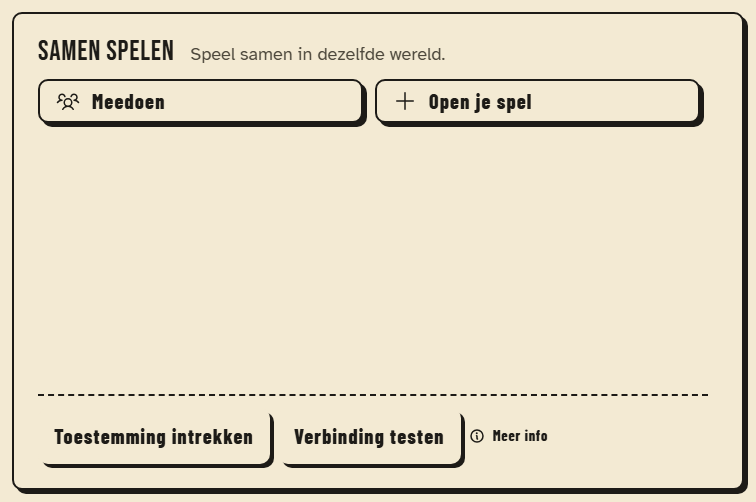
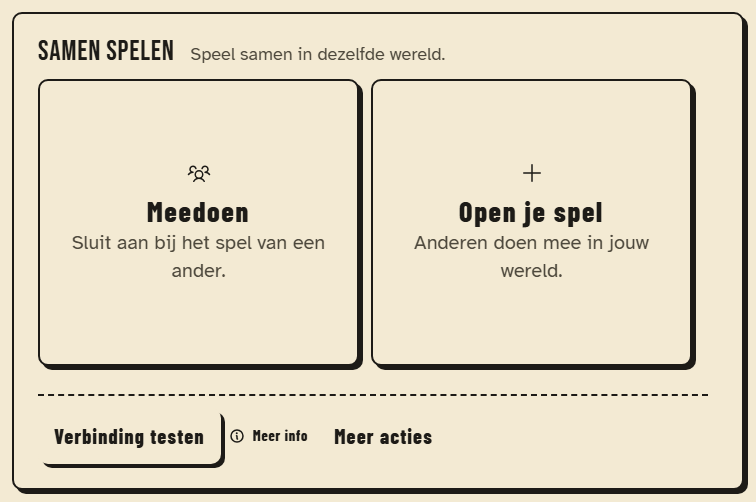
OSK-knop kreeg de klasse van de staat op html (pagina verborgen): hernoemd en klein; Samen-keuzekaarten groot; kaartstrook en legenda uitgelijnd; Garage op Alles en een paginamarge voor kop, tabs en inhoud

diff --git a/game/js/multiplayerwizardui.js b/game/js/multiplayerwizardui.js
@@ -23,13 +23,13 @@ export function wizardHtml(ctx) {
 
   if (s.step === 'start') {
     titel = WIZ_TEKST.keuze.titel; kort = WIZ_TEKST.keuze.kort;
-    body = `<div class="sw-kaarten sw-kaarten--2" role="group" aria-label="Wat wil je doen">
+    body = `<div class="sw-kaarten sw-kaarten--2 sw-kaarten--groot" role="group" aria-label="Wat wil je doen">
       ${choiceCard(icoon, 'spelers', 'Meedoen', 'Sluit aan bij het spel van een ander.', 'kies-gast')}
       ${choiceCard(icoon, 'plus', 'Open je spel', 'Anderen doen mee in jouw wereld.', 'kies-host')}
     </div>`;
     voet = [{ act: 'diag', label: 'Verbinding testen' }];
     info = ctx.stukken.uitleg;
-    if (s.consentSaved) voet.push({ act: 'consent-vergeet', label: 'Toestemming intrekken' });
+    if (s.consentSaved) voet.push({ act: 'consent-vergeet', label: 'Toestemming intrekken', meer: true });
   } else if (step === WSTEP.WHO) {
     titel = WIZ_TEKST.wie.titel; kort = v.profiel ? v.profiel.tekst : WIZ_TEKST.wie.kort;
     body = wieHtml(ctx);
@@ -76,7 +76,8 @@ export function wizardHtml(ctx) {
   const primair = gesorteerd.filter((b) => b.primary);
   const rest = gesorteerd.filter((b) => !b.primary);
   const max = rest.length <= VOET_SECUNDAIR_MAX ? VOET_SECUNDAIR_MAX : 1; // een volle voet houdt één secundaire knop en zet de rest achter "Meer acties"
-  const visible = rest.slice(0, max), meerActies = rest.slice(max);
+  const vast = rest.filter((b) => !b.meer); // een zeldzame actie (Toestemming intrekken) staat altijd achter "Meer acties"
+  const visible = vast.slice(0, max), meerActies = [...vast.slice(max), ...rest.filter((b) => b.meer)];
   const knop = (b) => `<button type="button" class="ds-z-knop${b.primary ? '' : ' ds-z-knop--secundair'} coop-btn sw-knop" data-act="${b.act}"${b.primary ? ' data-primary="1"' : ''}${b.disabled ? ' disabled aria-disabled="true"' : ''}${b.busy ? ' aria-busy="true"' : ''}><span class="ss-label">${b.busy ? icoon('zandloper', { maat: 's' }) + ' ' : ''}${esc(b.label)}${b.primary && !b.disabled ? ` <span class="coop-toets">${ctx.keyTextHtml('{ENTER}')}</span>` : ''}</span></button>`;
   const meerHtml = meerActies.length ? `<details class="sw-acties"${ctx.meerOpen ? ' open' : ''}><summary class="ds-z-knop ds-z-knop--ghost sw-knop">Meer acties</summary><div class="sw-acties-lijst">${meerActies.map(knop).join('')}</div></details>` : '';
   const infoHtml = info.length ? `<details class="sw-info"${ctx.uitlegOpen ? ' open' : ''}><summary class="sw-info-knop">${icoon('info', { maat: 's' })} Meer info</summary><div class="sw-info-tekst">${info.map((l) => `<p>${esc(l)}</p>`).join('')}</div></details>` : '';

diff --git a/game/js/ds-menu-zeef.css b/game/js/ds-menu-zeef.css
@@ -66,3 +66,16 @@ html.reduce-motion :is(.gm-zeef, #pause-menu :is([data-panel="todo"], [data-pane
 
 /* idem voor de overige menuschermen op papier (winkel, Samen spelen, Opgeslagen spellen): de vloer van 13 schermpixels */
 .gm-zeef { --ds-t-label: max(16px, var(--menu-min)); --ds-t-hulp: max(14px, var(--menu-min)); }
+
+/* Eén paginamarge voor kop, tabrij en inhoud (22-11, Garage-feedback): menu.css gaf de kop 40, de tabrij 64 en de lijst per breekpunt weer iets anders,
+   waardoor de kolommen niet onder de titel begonnen. --pm-pad-x is de enige maat; Spullen, Garage, Land en bedrijf, Loopbanen en de andere bladen
+   met kop + tabs + lijst/paneel volgen hem. Ritme: kop, 16 px lucht, tabrij, 16 px lucht, inhoud; het paneel rechts houdt een eigen goot tot de scrollbalk. */
+#pause-menu { --pm-pad-x: var(--ds-s-6); --pm-pad-y: var(--ds-s-4); }
+@media (max-height: 460px) { #pause-menu { --pm-pad-x: var(--ds-s-5); --pm-pad-y: var(--ds-s-2); } }
+#pause-menu :is([data-panel="todo"], [data-panel="garage"], [data-panel="verhaal"], [data-panel="prestaties"], [data-panel="loopbaan"], [data-panel="veroverd"], [data-panel="fotos"], [data-panel="spullen"], [data-panel="boerderij"], [data-panel="streken"]) .pm-inner > .m-tabs { margin: var(--pm-pad-y) var(--pm-pad-x) 0; padding-top: var(--ds-s-1); }
+#pause-menu :is([data-panel="todo"], [data-panel="garage"], [data-panel="verhaal"], [data-panel="prestaties"], [data-panel="loopbaan"], [data-panel="veroverd"], [data-panel="fotos"], [data-panel="spullen"], [data-panel="boerderij"], [data-panel="streken"]) .pm-inner > .m-main { padding: var(--pm-pad-y) var(--pm-pad-x) var(--ds-s-5); }
+#pause-menu .pm-sheet-head.m-head { padding-inline: var(--pm-pad-x); }
+#pause-menu [data-panel="garage"] .m-tablist { align-items: center; }
+#pause-menu [data-panel="garage"] .m-tablist .gar-chip:first-of-type { margin-left: auto; }
+#pause-menu [data-panel="garage"] .m-tablist .gar-chip:last-of-type { margin-right: var(--ds-s-2); }
+#pause-menu [data-panel="garage"] .m-pane.gar-viewer { padding-right: var(--ds-s-3); scrollbar-gutter: stable; }

diff --git a/game/js/mapview.js b/game/js/mapview.js
@@ -1214,10 +1214,10 @@ function isVoortgangsregel(tekst) {
 // De strook: links onder het zoekveld (eerst rechtsboven, maar daar lagen de knop Lagen en het paneel overheen). Daar zit geen kaartchrome (de uitleg
 // staat linksboven, de legenda, de zoomknoppen en de schaalbalk linksonder) en
 // de pins wijken ervoor, dus de chip valt nooit over een icoon (#463).
-function voortgangsStrook(cw, ch, breedte, hoogte) {
+function voortgangsStrook(cw, ch, breedte, hoogte, top = 196, links = 52) {
   const w = Math.min(Math.max(120, Math.round(breedte)), Math.max(120, cw - 24));
   const h = Math.max(18, Math.round(hoogte));
-  return [52, 196, 52 + w, Math.min(ch - 12, 196 + h)]; // links onder het zoekveld: rechtsboven liggen de knop Lagen en het paneel Op de kaart
+  return [links, top, links + w, Math.min(ch - 12, top + h)]; // links onder het zoekveld: rechtsboven liggen de knop Lagen en het paneel Op de kaart
 }
 
 // Een pin onder de strook is onleesbaar en niet aanwijsbaar; hij wijkt, tenzij
@@ -1414,7 +1414,13 @@ function drawStaticOverlay(ctx) {
     ctx.font = '600 12px sans-serif';
     let w = 0;
     for (const r of strookRegels) w = Math.max(w, ctx.measureText(r.tekst).width);
-    state.strook = voortgangsStrook(state.cw, state.ch, w + 20, strookRegels.length * 18 + 8);
+    // de strook hangt onder het zoekveld zoals het er echt staat (de kop schaalt mee met het menu), niet op een vaste hoogte
+    let top = 196, links = 52;
+    try {
+      const zr = state.overlay.querySelector('.mapview-search').getBoundingClientRect(), cr = state.canvas.getBoundingClientRect();
+      if (zr.height > 0 && cr.width > 0) { top = Math.round((zr.bottom - cr.top) * (state.cw / cr.width)) + 12; links = Math.max(12, Math.round((zr.left - cr.left) * (state.cw / cr.width))); }
+    } catch (e) { /* geen DOM (test): de vaste plek */ }
+    state.strook = voortgangsStrook(state.cw, state.ch, w + 20, strookRegels.length * 18 + 8, top, links);
     bezet.push(state.strook);
   } else state.strook = null;
 

diff --git a/game/js/samenspelen.css b/game/js/samenspelen.css
@@ -190,6 +190,13 @@ html.touch-device :is(#pause-menu .pm-samen, .coop-hold, .cp-overlay) .coop-toet
 #pause-menu .pm-samen .sw-kaart:hover:not([aria-pressed="true"]) { background: var(--ds-c-wit); }
 #pause-menu .pm-samen .sw-kaart:focus-visible { outline: var(--ds-focus-dikte) solid var(--ds-zeef-tx); outline-offset: var(--ds-focus-afstand); }
 
+/* de eerste keuze (Meedoen | Open je spel): twee grote kaarten die de ruimte vullen, de regel eronder blijft ook in een laag vak staan */
+#pause-menu .pm-samen .sw .sw-kaarten--groot { flex: 1 1 auto; min-height: 0; padding: 0 var(--ds-s-2) var(--ds-s-2) 0; }
+#pause-menu .pm-samen .sw .sw-kaarten--groot .sw-kaart { flex-direction: column; justify-content: center; align-items: center; text-align: center; gap: var(--ds-s-3); padding: var(--ds-s-4); min-height: 0; }
+#pause-menu .pm-samen .sw .sw-kaarten--groot .sw-kaart-kol { align-items: center; gap: var(--ds-s-1); }
+#pause-menu .pm-samen .sw .sw-kaarten--groot .sw-kaart-t { font-size: var(--ds-t-subkop); }
+#pause-menu .pm-samen .sw .sw-kaarten--groot .sw-kaart-tekst { display: block; font-size: var(--ds-t-body); }
+
 /* velden onder de kaarten */
 #pause-menu .pm-samen .sw-paneel { flex: none; display: flex; flex-direction: column; gap: var(--ds-s-2); }
 #pause-menu .pm-samen .sw-veld { display: flex; flex-direction: column; gap: var(--ds-s-1); }
@@ -269,6 +276,7 @@ html.touch-device :is(#pause-menu .pm-samen, .coop-hold, .cp-overlay) .coop-toet
 /* een laag vak (de menustage op 1280x720): de regel onder de kaartnaam valt weg en de knoppen worden compact */
 @container swvak (max-height: 640px) {
   .sw-kaart-tekst { display: none; }
+  .sw-kaarten--groot .sw-kaart-tekst { display: block; }
   .sw .sw-voet .sw-knop { min-height: var(--ds-doel-aanraken); padding-block: var(--ds-s-1); }
   .sw .sw-voet { padding-top: var(--ds-s-2); }
 }

diff --git a/game/js/garageui.js b/game/js/garageui.js
@@ -124,7 +124,8 @@ const PIN = icoon('plek', { maat: 'm' });
 
 const GROUP_LABEL = { owned: 'van jou', sale: 'te koop', locked: 'op slot' };
 const GROUP_HEAD = { owned: 'Van jou', sale: 'Te koop', locked: 'Op slot' };
-const view = { cat: 'autos', filter: 'all', sort: 'naam' };
+// De standaardtab is Alles (in het begin heb je weinig voertuigen); kiest de speler zelf een tab (eigen), dan blijft die staan zolang het spel draait.
+const view = { cat: 'all', eigen: false, filter: 'all', sort: 'naam' };
 
 let viewer = null;
 let viewerCanvas = null;
@@ -523,7 +524,7 @@ function bindToolbar(el) {
     const s = ev.target.closest('[data-garage-sort]');
     const f = ev.target.closest('[data-garage-filter]');
     if (!c && !s && !f) return;
-    if (c) view.cat = c.dataset.garageCat;
+    if (c) { view.cat = c.dataset.garageCat; view.eigen = true; }
     if (s) view.sort = cycleOption(SORTS, view.sort);
     if (f) view.filter = cycleOption(FILTERS, view.filter);
     refreshList(el);
@@ -538,6 +539,8 @@ export function renderGaragePanel(el, world, msg = '') {
   const alle = getGarageCatalog(world);
   const telling = knownCount(alle);
   const list = visibleList(alle);
+  const tabsNu = garageTabCounts(list); // Alles bestaat pas bij meer dan één soort; anders is de enige tab de keuze
+  if (tabsNu.length && (!view.eigen || !tabsNu.some((t) => t.id === view.cat))) view.cat = tabsNu.some((t) => t.id === 'all') && !view.eigen ? 'all' : tabsNu.some((t) => t.id === view.cat) ? view.cat : tabsNu[0].id;
   lastList = list;
   lastVerborgen = telling.verborgen;
   el.dataset.sub = knownText(telling);

diff --git a/game/js/ds-osk.css b/game/js/ds-osk.css
@@ -42,9 +42,10 @@
 .osk-toets:hover:not(.is-focus, .is-uit) { background: var(--ds-c-geel-hover); }
 .osk-voet { display: flex; flex-wrap: wrap; gap: var(--ds-s-2) var(--ds-s-5); margin: 0; font-family: var(--ds-font-tekst); font-size: var(--ds-t-hulp); color: var(--ds-tx-zacht); }
 .osk-hint-item { display: inline-flex; align-items: center; gap: var(--ds-s-2); }
-/* de knop naast een veld: alleen als de laatst gebruikte invoer een controller is (toetsenbord, muis en aanraking houden het gewone veld) */
-.osk-open { display: none; }
-html.dev-pad .osk-open { display: inline-flex; }
+/* de knop naast een veld: klein en altijd bruikbaar (muis, aanraking en controller). Let op: `osk-open` is de staatsklasse op <html>
+   zolang het toetsenbord openstaat; de knop heette ook zo en `display: none` verborg daardoor de hele pagina (#1120-feedback). */
+.osk-knop.ds-z-knop { flex: none; align-self: center; min-height: var(--ds-hoogte-chip, 32px); height: auto; padding: var(--ds-s-1) var(--ds-s-3); font-size: var(--ds-t-label); width: auto; max-width: 9em; white-space: nowrap; margin: 0; }
+.osk-knop.ds-z-knop .ds-z-knop__label { font-size: inherit; }
 /* Minder beweging: de kaart komt er zonder glijden; anders schuift hij kort omhoog */
 @media (prefers-reduced-motion: no-preference) { html:not(.reduce-motion, .rustig-drukwerk) .osk-kaart { animation: osk-op var(--ds-m-snel) var(--ds-ease); } }
 @keyframes osk-op { from { translate: 0 var(--ds-s-5); opacity: 0; } to { translate: 0 0; opacity: 1; } }

diff --git a/game/js/oskview.js b/game/js/oskview.js
@@ -10,10 +10,10 @@ const esc = (s) => String(s ?? '').replace(/[&<>"]/g, (c) => ({ '&': '&amp;', '<
 
 const KIND_NAME = { 'naam': 'naam', code: 'code', tekst: 'tekst', wachtwoord: 'wachtwoord', zoek: 'zoekterm', cijfers: 'cijfers' };
 
-/** De knop 'Toetsenbord' naast een veld (alleen zichtbaar als de laatst gebruikte invoer een controller is, ds-osk.css). */
+/** De knop 'Toetsenbord' naast een veld (klein naast het veld, ds-osk.css; NIET osk-open: dat is de staatsklasse op <html> zolang het toetsenbord openstaat). */
 export function oskKnop(label = '') {
   const l = label ? `Toetsenbord voor ${label}` : 'Toetsenbord';
-  return `<button type="button" class="osk-open ds-z-knop ds-z-knop--ghost" data-osk-open aria-label="${esc(l)}" title="${esc(l)}"><span class="ds-z-knop__label">Toetsenbord</span></button>`;
+  return `<button type="button" class="osk-knop ds-z-knop ds-z-knop--ghost" data-osk-open aria-label="${esc(l)}" title="${esc(l)}"><span class="ds-z-knop__label">Toetsenbord</span></button>`;
 }
 
 function toetsLabel(k) {

diff --git a/game/js/gebiedenkaart.js b/game/js/gebiedenkaart.js
@@ -332,7 +332,7 @@ export function tekenToestandVlak(ctx, id, x, y, w, h, vlagKleur = dsKleur('lich
 export function tekenLegenda(ctx, cw, ch, hoofd, kleurTekst = dsKleur('creme')) {
   if (!hoofd) return;
   const rijen = legendaRijen();
-  const x = 16, rij = 26, h = 34 + rij * rijen.length + 6, y = ch - 56 - h;
+  const x = 32, rij = 26, h = 34 + rij * rijen.length + 6, y = ch - 88 - h; // boven de bronvermelding en de schaalbalk, met lucht tot de rand
   ctx.save();
   ctx.globalAlpha = 1;
   const inkt = dsKleur('ink-inkt');

diff --git a/CHANGELOG.md b/CHANGELOG.md
@@ -11,6 +11,11 @@ elke versie is één `## [x.y.z]`-blok met Nederlandse regels.
 
 (De coördinator voegt deze regels bij 0.65.0.)
 
+- Toetsenbordknop naast zoekvelden: een klik op Toetsenbord (kaart, Spullen, Prestaties, Samen spelen) maakte het hele scherm onzichtbaar of kapot, omdat de knop dezelfde klassenaam had als de staat van het schermtoetsenbord. De knop is nu klein, werkt met de muis en laat het veld met rust. Samen spelen: het toetsenbord is van de speler zelf (lokaal), niets gaat naar anderen.
+- Samen spelen: de eerste keuze (Meedoen of Open je spel) is twee grote kaarten met hun uitleg, en Toestemming intrekken staat achter Meer acties. Gasten en hosts zien dezelfde stappen als eerst.
+- Kaart: de voortgangsregel hangt onder het zoekveld in plaats van onder de titel, en de legenda staat boven de bronvermelding met lucht tot de rand.
+- Garage: opent op Alles en onthoudt je eigen tabkeuze tijdens het spel. Kop, tabs en lijst delen nu dezelfde paginamarge (ook in Spullen, Land en bedrijf en Loopbanen); het paneel rechts houdt ruimte tot de scrollbalk.
+
 - Twee nieuwe filmpjes van Tammo en Tessa bij het begin van een carrière, elk van ongeveer anderhalve minuut en over te slaan. Voetbal: bij je eerste training op het sportpark van je club staat Tessa in het clubtenue van de Talentenklasse, regelt Tammo de zaken als zaakwaarnemer (met een map) en heeft trainer Eppo een scherpe tong. Landbouw: bij je eerste perceel staan Tessa en Tammo aan de weg met de akte, geeft buurman Aldert de sleutel van de schuur en leent hij zijn trekker uit, terwijl Tammo zegt dat hij geen verstand van koeien heeft. Ze starten pas als het rustig is (geen menu, geen melding, geen missie) en één keer per speler; overslaan telt als gezien. Bij Samen spelen ziet wie de carrière start of het perceel koopt de scène, en kijken de meespelers hem lokaal mee.
 - Missies: begin je na een mislukking opnieuw bij een hervatpunt, dan tellen je keuzes van daarvoor nog mee (de bondgenoot in De colonne, de bakscore, een overgeslagen stuk van de inbraak). Eerder was je die kwijt.
 - Missies: mislukt of stop je een achtervolging, dan wordt het vluchtende voertuig weer gewoon verkeer. Het bleef eerder als missiedoel rondrijden en bij elke nieuwe poging kwam er een bij.
